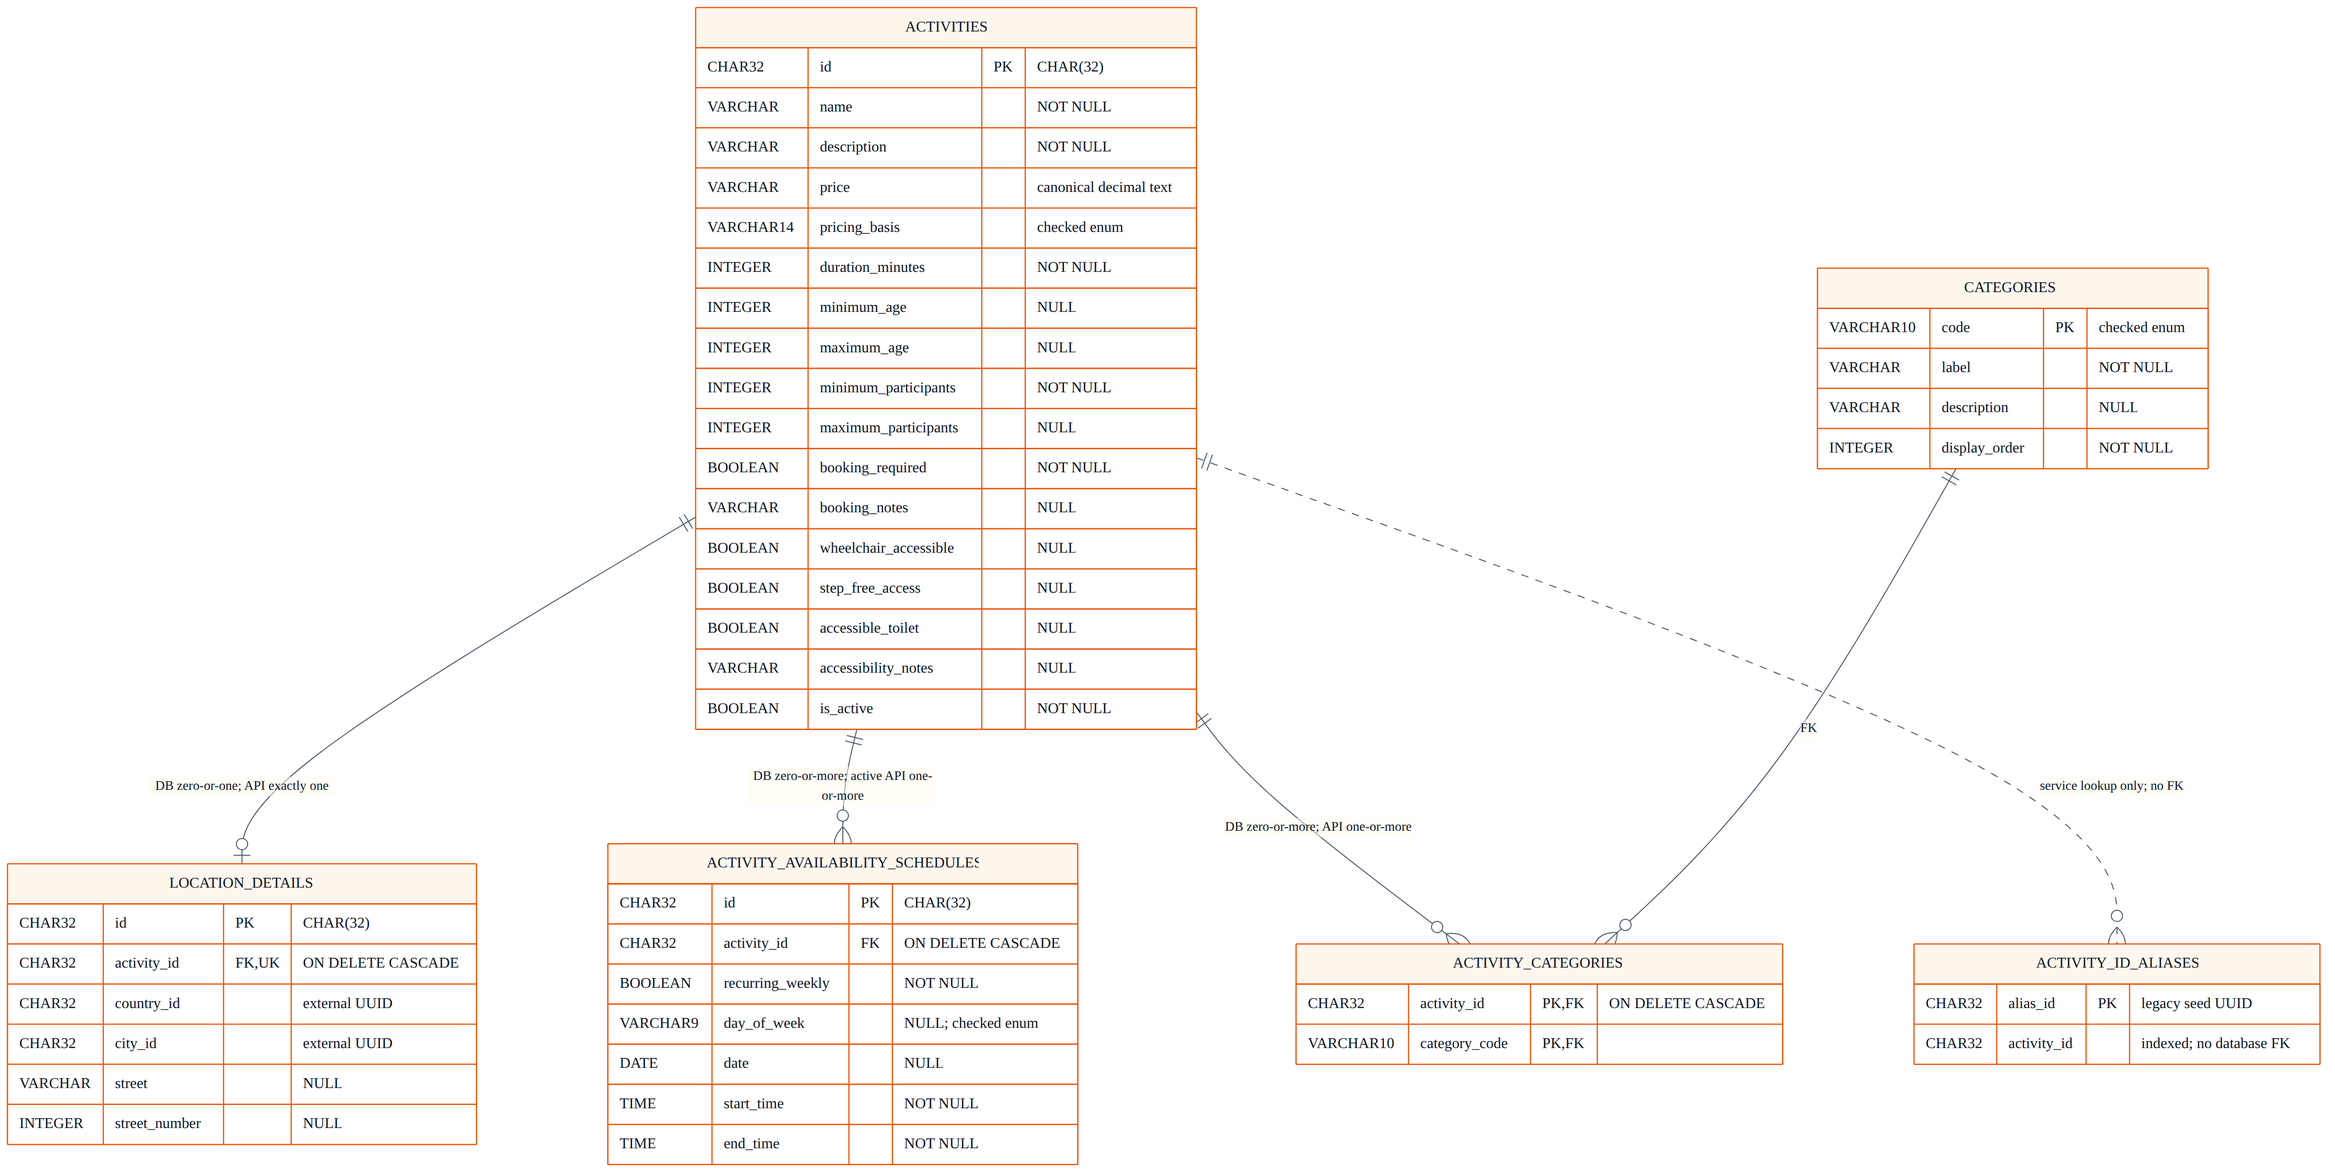
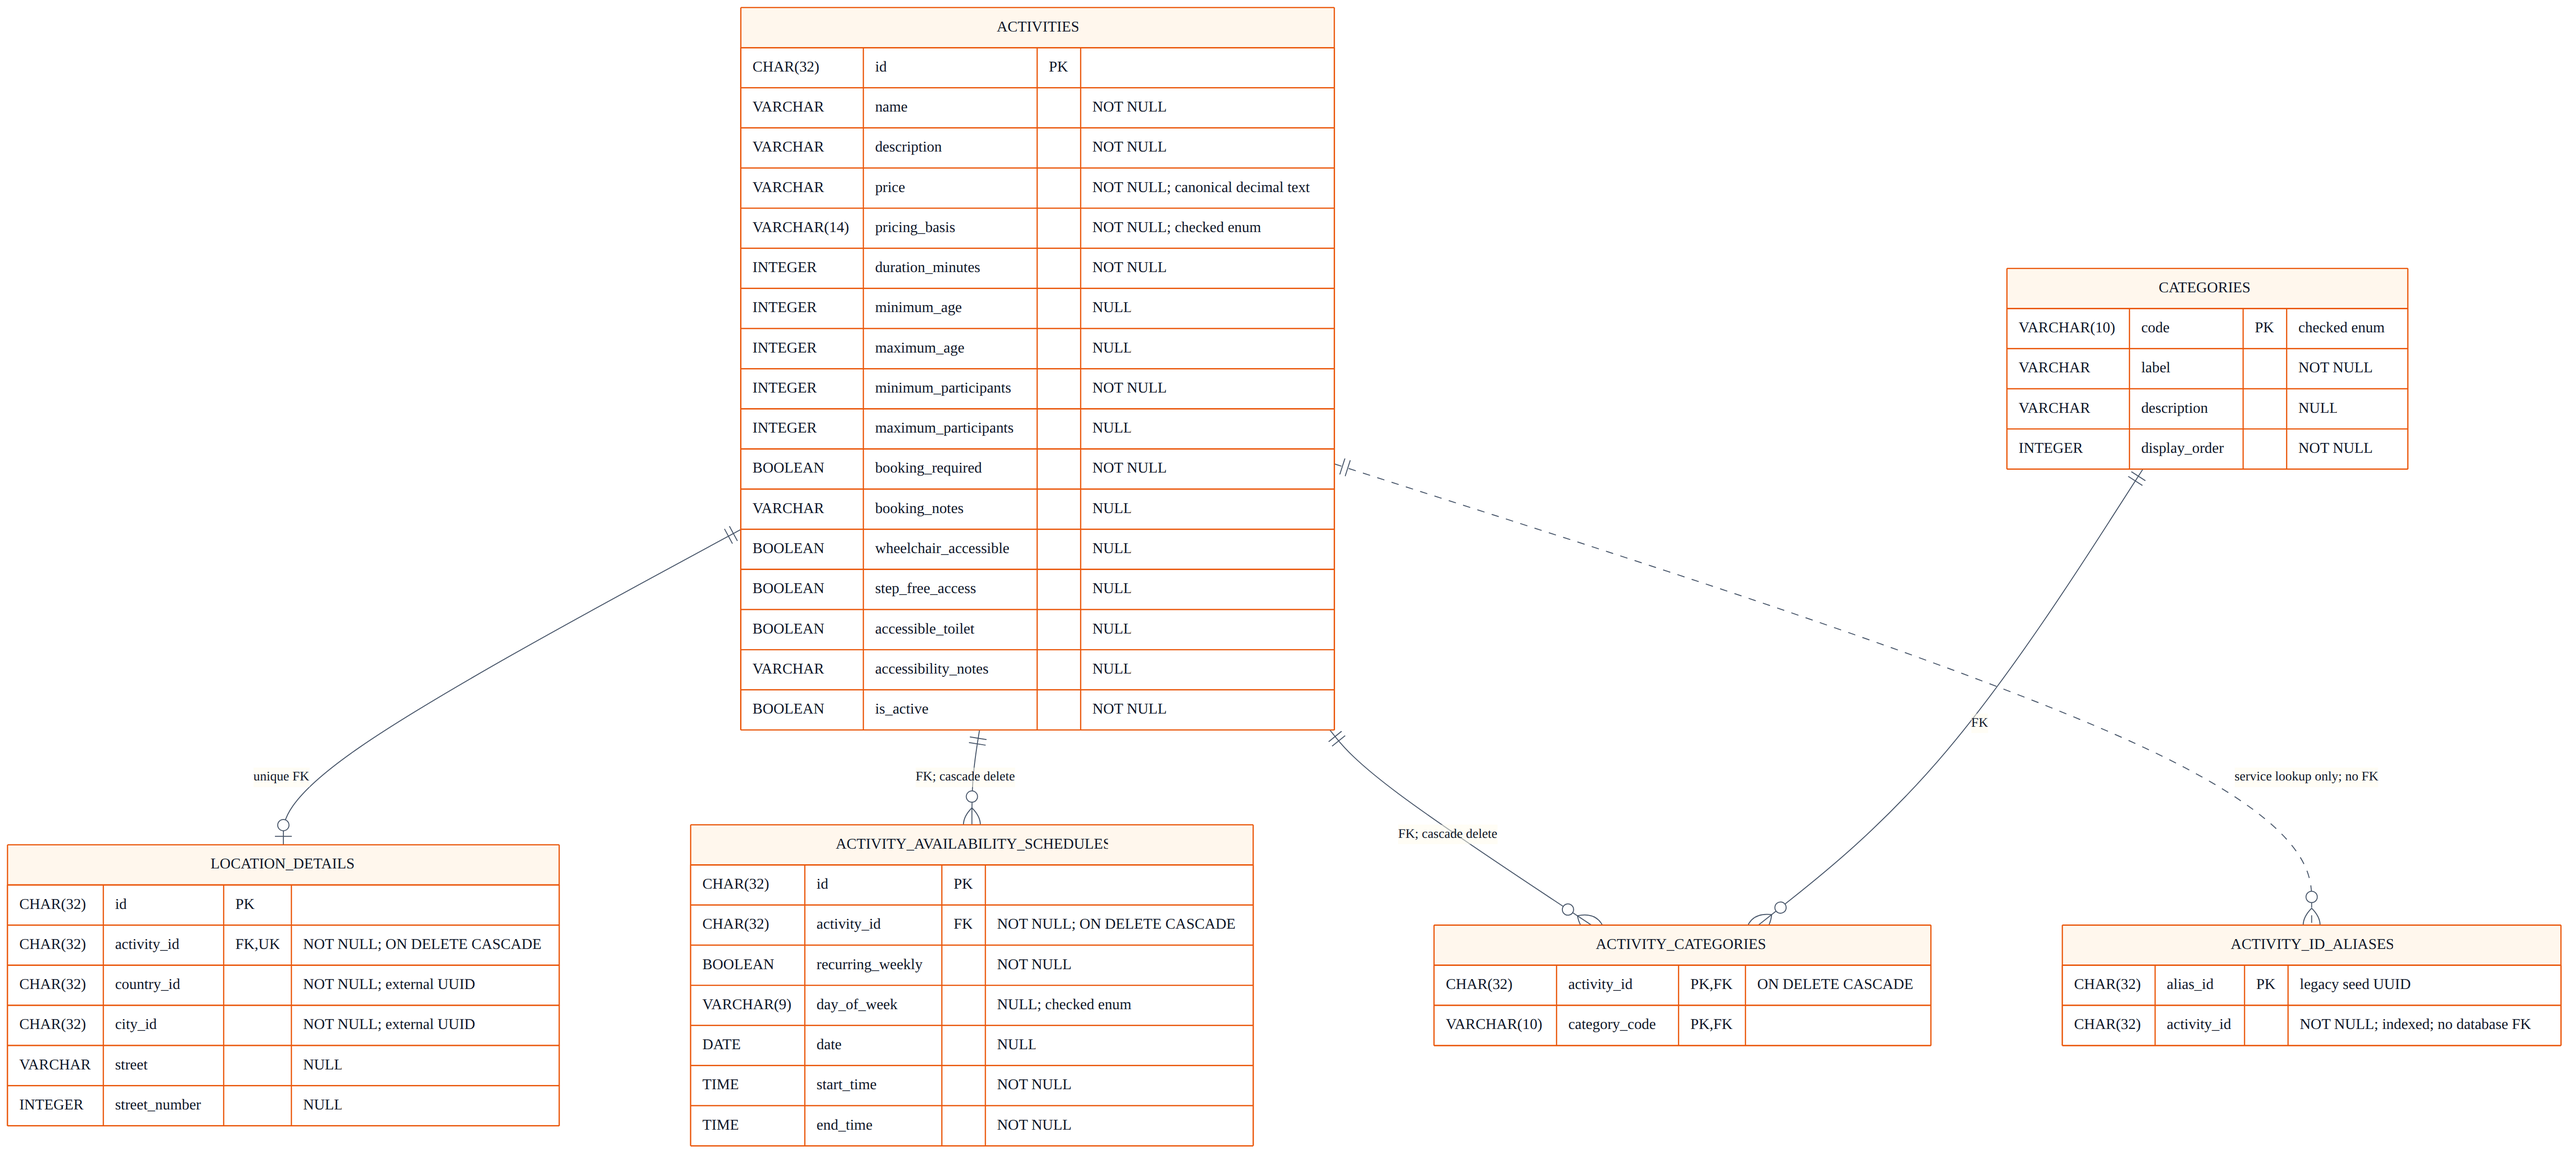
Correct Student 4 ERD semantics (#116)
* docs: correct Student 4 ERD semantics

* docs: finalize accurate Student 4 ERDs

diff --git a/docs/reports/release-0/Student4/DataDesign/physical.md b/docs/reports/release-0/Student4/DataDesign/physical.md
@@ -15,18 +15,18 @@ this document.
 ```mermaid
 %%{init: {"theme":"base","themeVariables":{"fontFamily":"Inter, ui-sans-serif, system-ui, sans-serif","primaryColor":"#fff7ed","primaryTextColor":"#0f172a","primaryBorderColor":"#ea580c","lineColor":"#475569","tertiaryColor":"#fffbeb"}}}%%
 erDiagram
-    ACTIVITIES ||--o| LOCATION_DETAILS : "DB zero-or-one; API exactly one"
-    ACTIVITIES ||--o{ ACTIVITY_AVAILABILITY_SCHEDULES : "DB zero-or-more; active API one-or-more"
-    ACTIVITIES ||--o{ ACTIVITY_CATEGORIES : "DB zero-or-more; API one-or-more"
+    ACTIVITIES ||--o| LOCATION_DETAILS : "unique FK"
+    ACTIVITIES ||--o{ ACTIVITY_AVAILABILITY_SCHEDULES : "FK; cascade delete"
+    ACTIVITIES ||--o{ ACTIVITY_CATEGORIES : "FK; cascade delete"
     CATEGORIES ||--o{ ACTIVITY_CATEGORIES : "FK"
     ACTIVITIES ||..o{ ACTIVITY_ID_ALIASES : "service lookup only; no FK"
 
     ACTIVITIES {
-        CHAR32 id PK "CHAR(32)"
+        CHAR(32) id PK
         VARCHAR name "NOT NULL"
         VARCHAR description "NOT NULL"
-        VARCHAR price "canonical decimal text"
-        VARCHAR14 pricing_basis "checked enum"
+        VARCHAR price "NOT NULL; canonical decimal text"
+        VARCHAR(14) pricing_basis "NOT NULL; checked enum"
         INTEGER duration_minutes "NOT NULL"
         INTEGER minimum_age "NULL"
         INTEGER maximum_age "NULL"
@@ -42,51 +42,58 @@ erDiagram
     }
 
     LOCATION_DETAILS {
-        CHAR32 id PK "CHAR(32)"
-        CHAR32 activity_id FK,UK "ON DELETE CASCADE"
-        CHAR32 country_id "external UUID"
-        CHAR32 city_id "external UUID"
+        CHAR(32) id PK
+        CHAR(32) activity_id FK,UK "NOT NULL; ON DELETE CASCADE"
+        CHAR(32) country_id "NOT NULL; external UUID"
+        CHAR(32) city_id "NOT NULL; external UUID"
         VARCHAR street "NULL"
         INTEGER street_number "NULL"
     }
 
     CATEGORIES {
-        VARCHAR10 code PK "checked enum"
+        VARCHAR(10) code PK "checked enum"
         VARCHAR label "NOT NULL"
         VARCHAR description "NULL"
         INTEGER display_order "NOT NULL"
     }
 
     ACTIVITY_CATEGORIES {
-        CHAR32 activity_id PK,FK "ON DELETE CASCADE"
-        VARCHAR10 category_code PK,FK
+        CHAR(32) activity_id PK,FK "ON DELETE CASCADE"
+        VARCHAR(10) category_code PK,FK
     }
 
     ACTIVITY_AVAILABILITY_SCHEDULES {
-        CHAR32 id PK "CHAR(32)"
-        CHAR32 activity_id FK "ON DELETE CASCADE"
+        CHAR(32) id PK
+        CHAR(32) activity_id FK "NOT NULL; ON DELETE CASCADE"
         BOOLEAN recurring_weekly "NOT NULL"
-        VARCHAR9 day_of_week "NULL; checked enum"
+        VARCHAR(9) day_of_week "NULL; checked enum"
         DATE date "NULL"
         TIME start_time "NOT NULL"
         TIME end_time "NOT NULL"
     }
 
     ACTIVITY_ID_ALIASES {
-        CHAR32 alias_id PK "legacy seed UUID"
-        CHAR32 activity_id "indexed; no database FK"
+        CHAR(32) alias_id PK "legacy seed UUID"
+        CHAR(32) activity_id "NOT NULL; indexed; no database FK"
     }
 ```
 
 SQLite foreign keys enforce child-to-parent references and cascade deletion,
-but they cannot require a parent activity to have child rows. The API validation
-therefore requires one location, at least one category, and at least one
-schedule whenever `is_active` is true. The database still permits an inactive
-catalogue entry to have no schedules.
+but they cannot require a parent activity to have child rows. API validation
+requires one location and at least one category for every activity. It requires
+at least one schedule only when `is_active` is true; an inactive activity may
+have none.
 
 The physical indexes support country/city filtering, category-first lookup,
-schedule lookup by activity, and activity lookup from a legacy alias. Two
-partial unique indexes prevent duplicate weekly and one-off schedule rows.
+schedule lookup by activity, and activity lookup from a legacy alias. The two
+deployed partial unique indexes are:
+
+- `uq_schedule_weekly_identity (activity_id, day_of_week, start_time, end_time)
+  WHERE recurring_weekly = 1`
+- `uq_schedule_one_off_identity (activity_id, date, start_time, end_time)
+  WHERE recurring_weekly = 0`
+
+Together they prevent duplicate weekly and one-off schedule rows.
 SQLite `CHECK` constraints enforce enum values, canonical prices, valid
 booleans, ordered bounds, non-negative values, valid local date/time text, and
 the weekly-versus-one-off schedule discriminator. The service additionally

diff --git a/docs/reports/release-0/Student4/DataDesign/conceptual.md b/docs/reports/release-0/Student4/DataDesign/conceptual.md
@@ -22,25 +22,27 @@ flowchart LR
     end
 
     subgraph EXTERNAL[Shared reference domain]
-        PLACE[<b>Country & city</b><br/>authoritative shared concepts]
+        COUNTRY[<b>Country</b><br/>authoritative shared concept]
+        CITY[<b>City</b><br/>authoritative shared concept]
     end
 
     ACTIVITY -->|takes place at exactly one| LOCATION
-    ACTIVITY <-->|classified by one or more| CATEGORY
+    ACTIVITY ---|"per Activity: 1..* categories; per Category: 0..* activities"| CATEGORY
     ACTIVITY -->|"inactive: zero or more; active: one or more"| SCHEDULE
-    LOCATION -.->|references by UUID| PLACE
+    LOCATION -.->|"per Location: exactly 1; per Country: 0..* locations"| COUNTRY
+    LOCATION -.->|"per Location: exactly 1; per City: 0..* locations"| CITY
 
     classDef core fill:#dcfce7,stroke:#16a34a,color:#0f172a,stroke-width:3px;
     classDef owned fill:#dbeafe,stroke:#2563eb,color:#0f172a,stroke-width:2px;
     classDef external fill:#f3e8ff,stroke:#9333ea,color:#0f172a,stroke-width:2px,stroke-dasharray:5 5;
     class ACTIVITY core;
     class LOCATION,CATEGORY,SCHEDULE owned;
-    class PLACE external;
+    class COUNTRY,CITY external;
     style OWNED fill:#ffffff,stroke:#60a5fa,stroke-width:2px;
     style EXTERNAL fill:#faf5ff,stroke:#a855f7,stroke-width:2px;
 ```
 
 An inactive catalogue entry may have no schedule, but an active activity must
 have at least one. Country and city remain authoritative in the shared
-reference service, so the dotted connection is a UUID reference across service
-boundaries rather than a relationship between tables in one database.
+reference service, so the dotted connections cross domain ownership boundaries
+rather than representing tables owned by Student 4.
